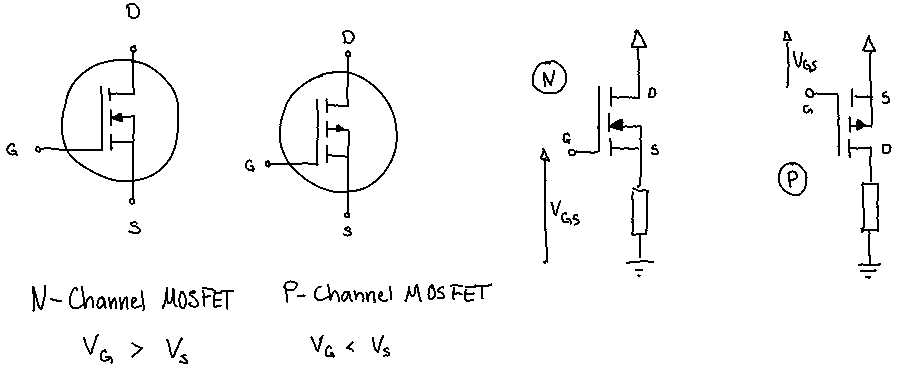
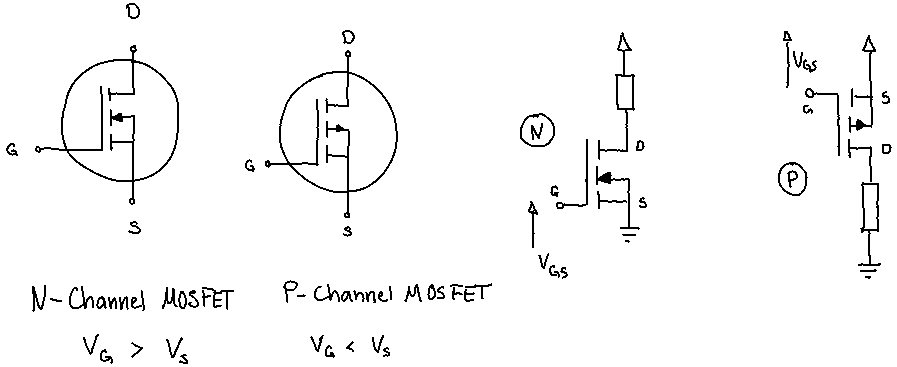
Fix mosfet, Raspi sound with omxplayer and amixer

diff --git a/raspi.md b/raspi.md
@@ -145,13 +145,19 @@ For MCP23017 in the standard configuration with `IOCON.BANK = 0`:
 
 For higher quality audio, use the [HiFiBerry](https://www.hifiberry.com/).
 
-Play sound at non-max
+Play sound at non-max with `omxplayer` which is generally quite efficient also for playing videos:
 
     omxplayer --vol -5000 file.mp3
 
 Speech synthesis output; use omxplayer for better quality. See [RPi Text to Speech](https://elinux.org/RPi_Text_to_Speech_(Speech_Synthesis))
 
     echo "Hey there" | espeak -ven+f3 -k5 -s150 --stdin -w /tmp/test.wav; omxplayer /tmp/test.wav
+
+Play sound with `mplayer` and change the volume with `amixer`:
+
+    mplayer file.mp3
+    amixer contents           # Get available commands
+    amixer cset numid=1 50%   # Set the volume to 50 %
 
 ## Display
 

diff --git a/electronics.md b/electronics.md
@@ -184,8 +184,8 @@ I<sub>C</sub> −600 mA, V<sub>BE(sat)</sub> −0.6 to −2.6 V, V<sub>CE(sat)</
 are *voltage controlled*, in contrast to bipolar transistors, which are current controlled. This means that when
 a current flows between drain and source, a MOSFET requires (almost) no current through the gate.
 
-* In N-channel MOSFETs, current flows if V<sub>G</sub> > V<sub>S</sub>, load goes to the source.
-* In P-Channel MOSFETs, current flows for V<sub>G</sub> < V<sub>S</sub>, load goes to the drain.
+* In N-channel MOSFETs, current flows if V<sub>G</sub> > V<sub>S</sub>, load goes to the drain.
+* In P-Channel MOSFETs, current flows for V<sub>G</sub> < V<sub>S</sub>, load goes to the source.
 
 ![](Pictures/mosfet-n-p.png)
 

diff --git a/arduino.md b/arduino.md
@@ -12,7 +12,9 @@ Problems when uploading: [avrdude upload issues][arduino-upload]
 
 ## Arduino Pro Mini
 
-Can be powered with up to 12 V.
+Can be powered with up to 16 V when supplied through the RAW pin, which is connected
+to a [MIC5203](http://ww1.microchip.com/downloads/en/DeviceDoc/mic5203.pdf) voltage regulator
+which converts to 3.3 V (or to 5 V, depending on the board version).
 
 **IO pins** supply up to 40 mA each.
 Input leakage current is [around 1 µA](https://electronics.stackexchange.com/a/67173/135063),
